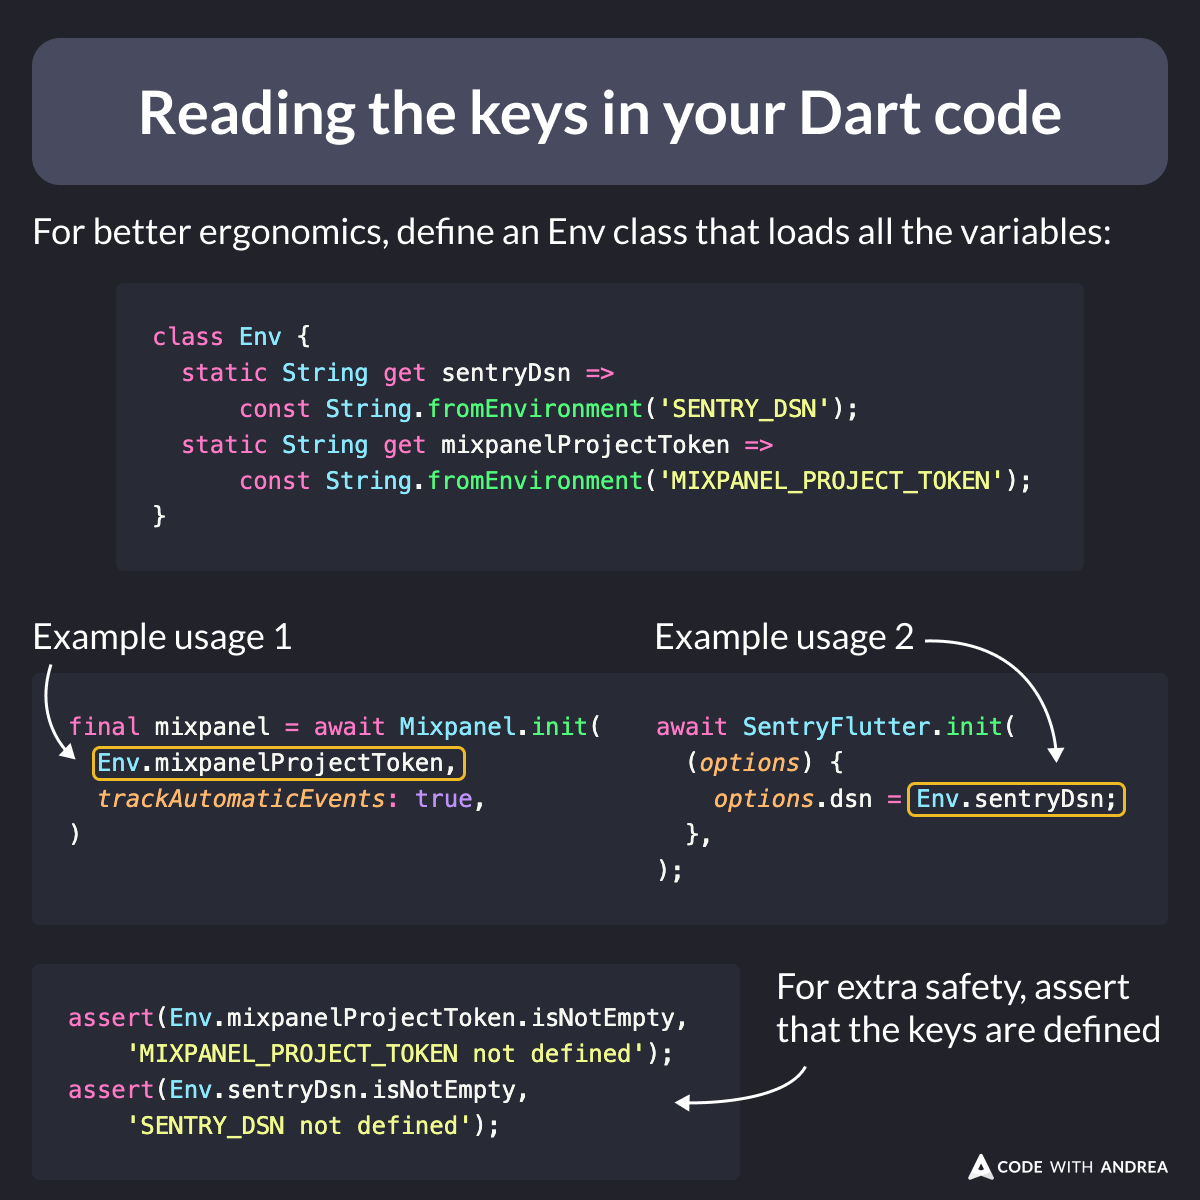
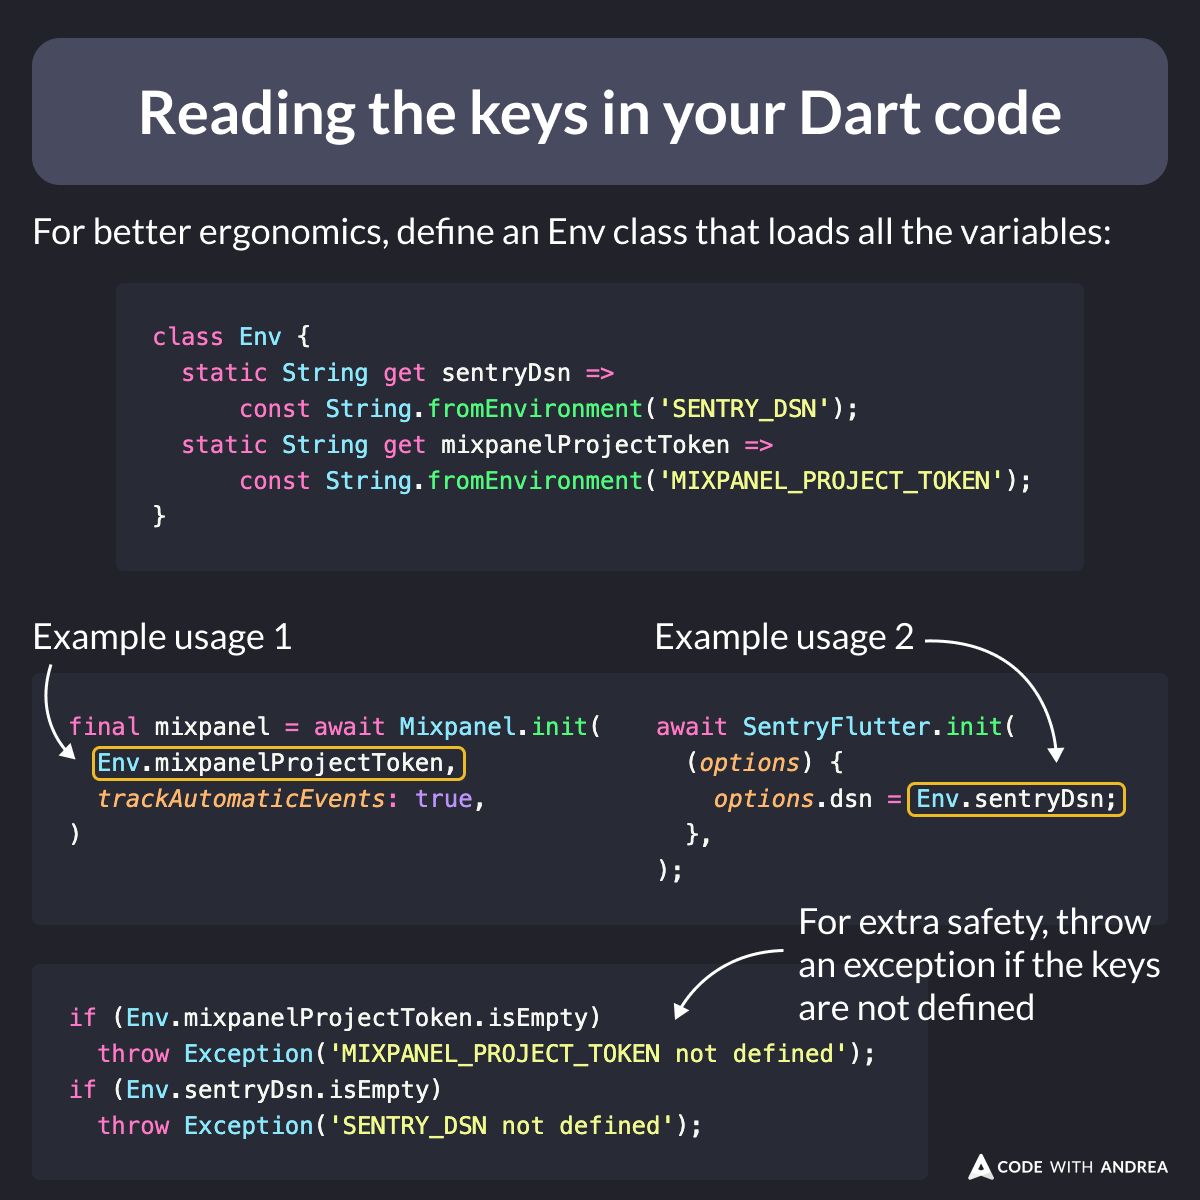
Update tips 175, 176

Changed region(s): [[0.0617, 0.74, 0.9558, 0.9558], [0.6167, 0.7708, 0.6475, 0.8017]]

diff --git a/tips/0175-dart-define-from-file-env-json/index.md b/tips/0175-dart-define-from-file-env-json/index.md
@@ -52,7 +52,7 @@ Then, you can use `String.fromEnvironment` to read the keys in your Dart code.
 
 For convenience, define an `Env` class that holds all the keys in one place. This makes it easier to use them.
 
-Extra tip: when your app starts, assert that the variables are actually defined.
+Extra tip: when your app starts, throws an exception if the keys are not defined.
 
 ![](175.2.png)
 
@@ -80,12 +80,13 @@ await SentryFlutter.init(
   },
 );
 
-// For extra safety, assert that the variables are defined
-assert(Env.mixpanelProjectToken.isNotEmpty,
-    'MIXPANEL_PROJECT_TOKEN not defined');
-assert(Env.sentryDsn.isNotEmpty,
-    'SENTRY_DSN not defined');
-
+// For extra safety, throw an exception if the keys are not defined
+  if (Env.mixpanelProjectToken.isEmpty) {
+    throw Exception('MIXPANEL_PROJECT_TOKEN not defined');
+  }
+  if (Env.sentryDsn.isEmpty) {
+    throw Exception('SENTRY_DSN not defined');
+  }
 -->
 
 ---

diff --git a/tips/0176-use-unawaited-analytics-calls/index.md b/tips/0176-use-unawaited-analytics-calls/index.md
@@ -1,6 +1,6 @@
 # Use unawaited for your analytics calls
 
-When tracking analytics events in your code, consider using `unawaited` from `dart:async`.
+When tracking analytics events in your code, consider using [`unawaited`](https://api.flutter.dev/flutter/dart-async/unawaited.html) from `dart:async`.
 
 Why?
 
@@ -22,6 +22,10 @@ Future<void> deleteAppById(int appId) async {
   }
 }
 -->
+
+For more info, read:
+
+- [unawaited function](https://api.flutter.dev/flutter/dart-async/unawaited.html)
 
 ---
 
